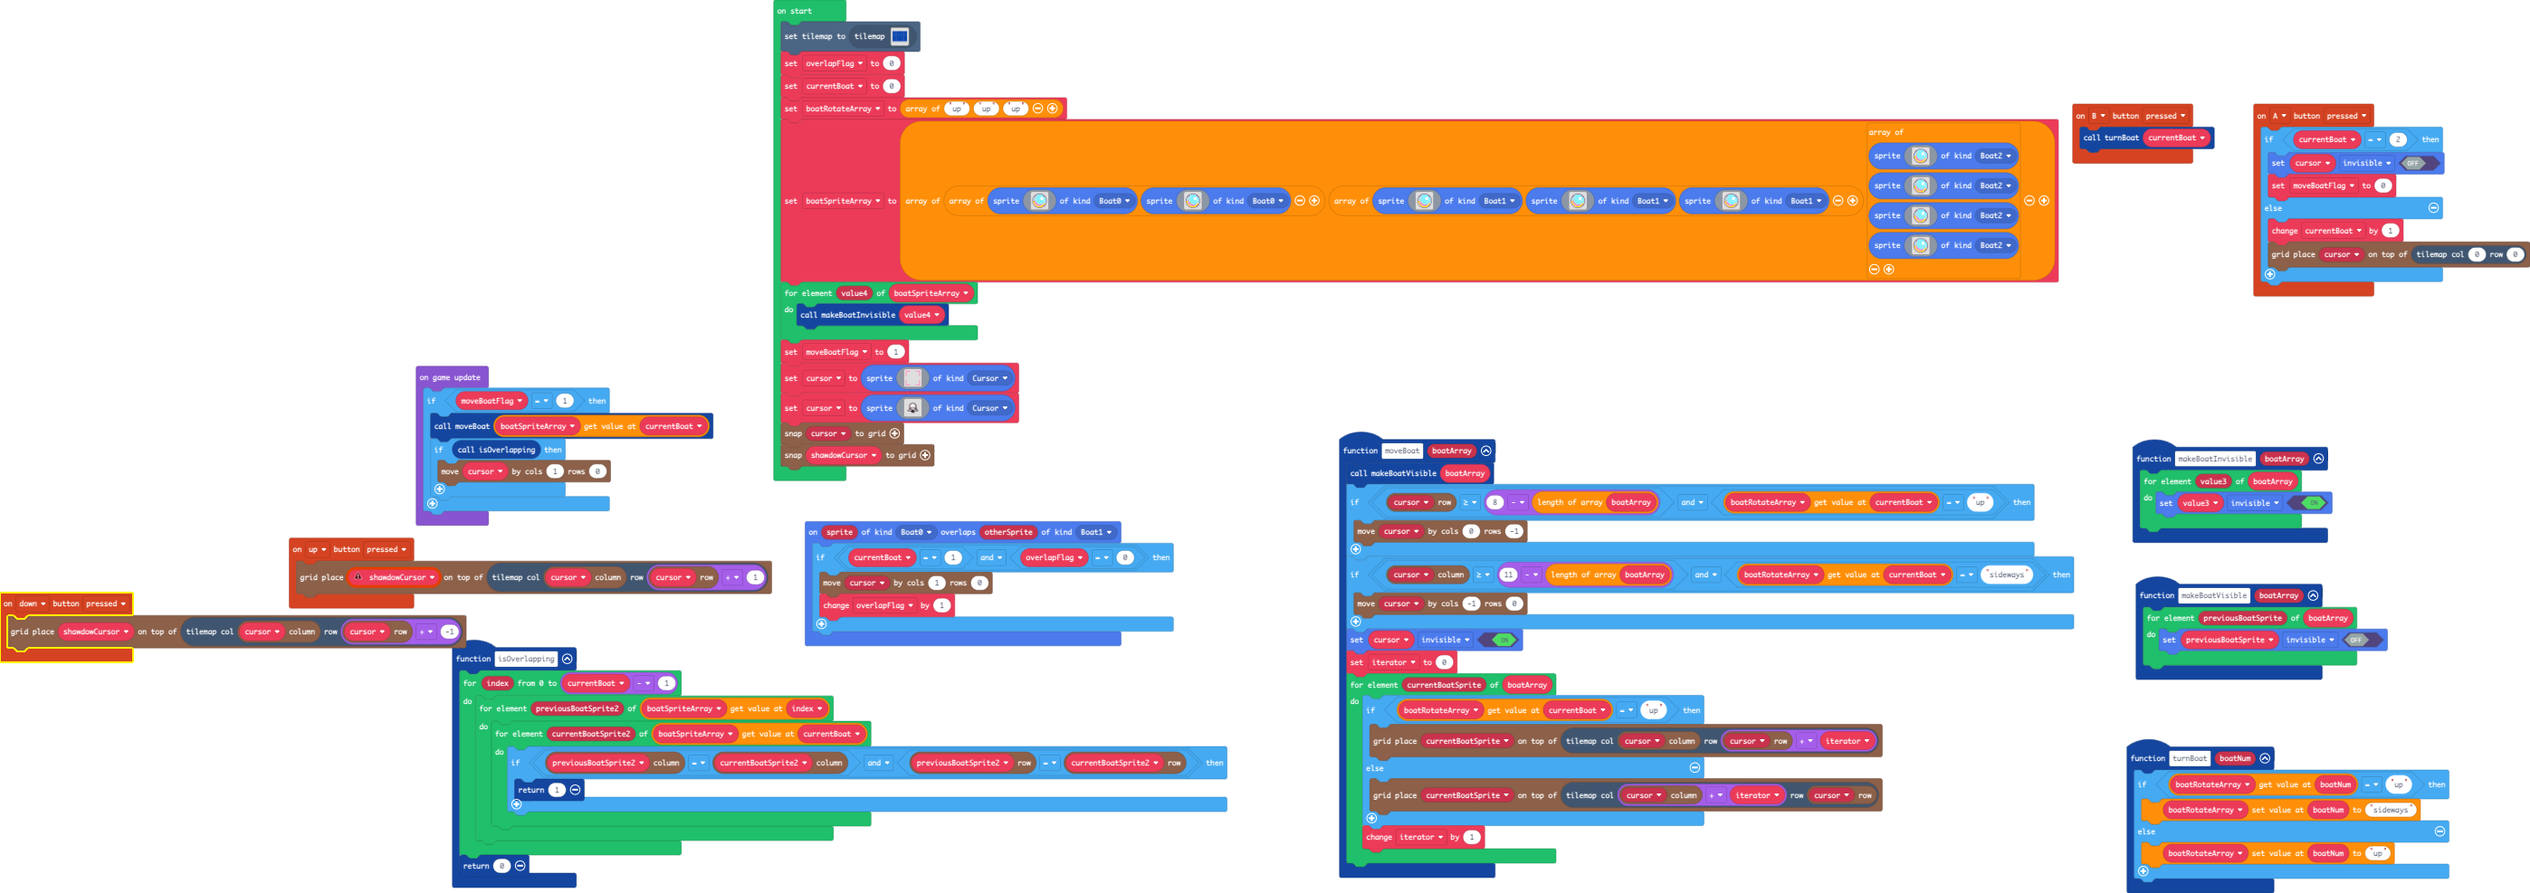
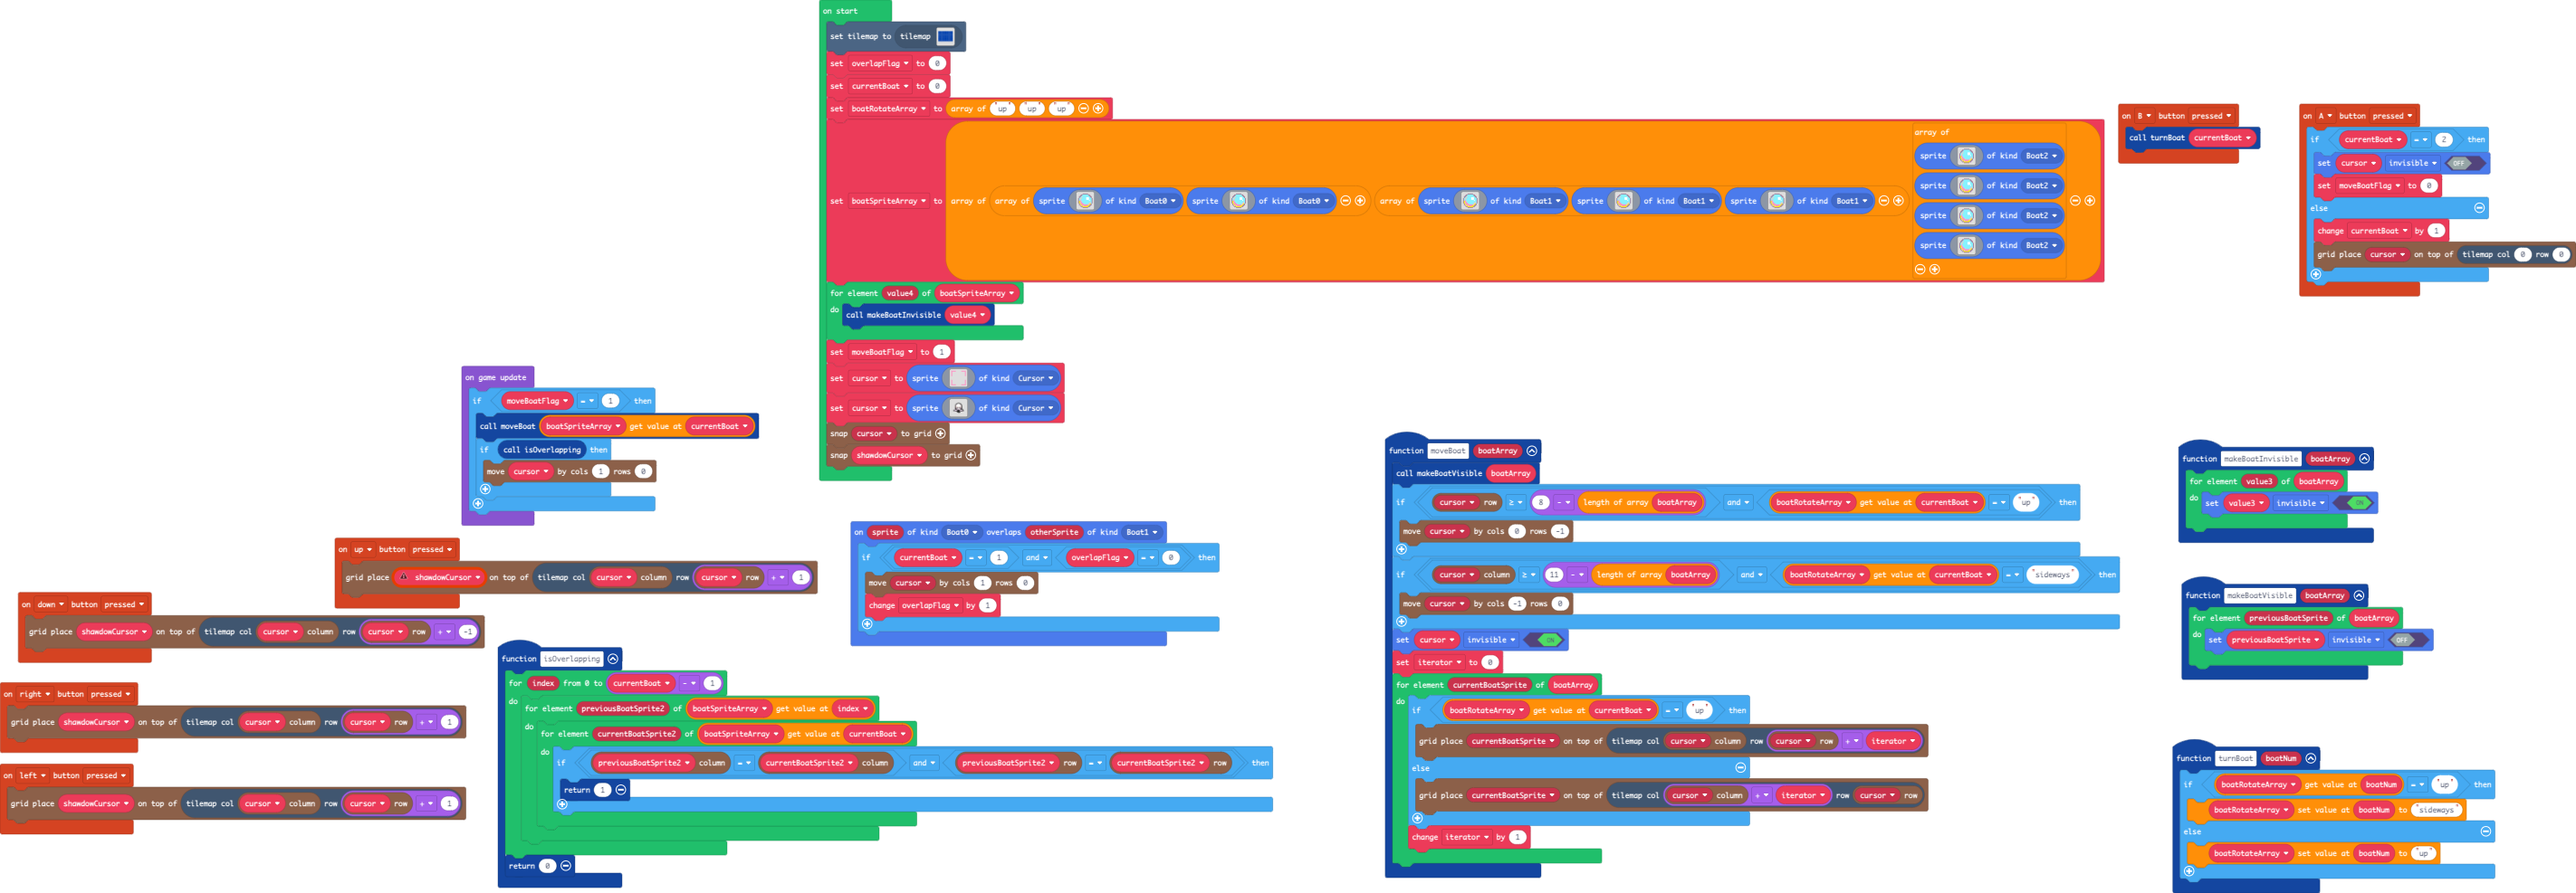
working on overlap feature

diff --git a/main.ts b/main.ts
@@ -30,6 +30,12 @@ controller.A.onEvent(ControllerButtonEvent.Pressed, function () {
         grid.place(cursor, tiles.getTileLocation(0, 0))
     }
 })
+controller.left.onEvent(ControllerButtonEvent.Pressed, function () {
+    grid.place(shawdowCursor, tiles.getTileLocation(grid.spriteCol(cursor), grid.spriteRow(cursor) + 1))
+})
+controller.right.onEvent(ControllerButtonEvent.Pressed, function () {
+    grid.place(shawdowCursor, tiles.getTileLocation(grid.spriteCol(cursor), grid.spriteRow(cursor) + 1))
+})
 function moveBoat (boatArray: any[]) {
     makeBoatVisible(boatArray)
     if (grid.spriteRow(cursor) >= 8 - boatArray.length && boatRotateArray[currentBoat] == "up") {
